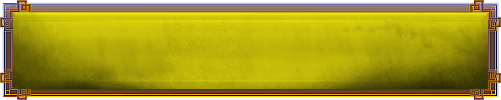
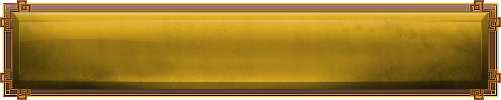
Showing selected class button (by removing background)

diff --git a/public/main.css b/public/main.css
@@ -113,8 +113,8 @@ width: 70%;
 
 .classButton { 
     //background-color: white;
-    font-size: 30px;
-    width:95%;
+    font-size: 1.5vw;
+    min-width:100%;
     //background-image: url("button.png");
    // background: url("button.png") no-repeat scroll 0 0 transparent;
            background: none;
@@ -123,11 +123,12 @@ width: 70%;
    background-repeat: no-repeat;
    background-position: center;
     //background-size: 100% 100%;
-    background-size:100%;
+    background-size:100% 100%;
 
     //height:300px;
     //color: inherit;
     border: none;
+    outline: none;
     //padding: 0;
     //font: inherit;
     //cursor: pointer;
@@ -136,12 +137,15 @@ width: 70%;
      //height:200px;
      //width:300px;
      color: #cea564;
-     //color:black;
       text-shadow:
-    -1px -1px 0 #000,
-    1px -1px 0 #000,
-    -1px 1px 0 #000,
-    1px 1px 0 #000;
+    -0.6px -0.6px 0 #000,
+    0.6px -0.6px 0 #000,
+    -0.6px 0.6px 0 #000,
+    0.6px 0.6px 0 #000;
+}
+
+.classText {
+
 }
 /*.classButton:active {
 	background:green;
@@ -152,6 +156,7 @@ width: 70%;
   table-layout: fixed;
   border-collapse:separate; 
   border-spacing:1em;
+  margin:auto;
 }
 
 .submit {

diff --git a/public/client.js b/public/client.js
@@ -14,15 +14,19 @@ $('.classButton').css('background-image', function(index,currentvalue) {
 	return 'url(' + this.value + 'Button.png)';
 });
 
-
 $('.classButton').click(function(e) {
 	//update hidden class input when any class button is clicked 
 	document.getElementById('classInput').value = this.value;
 	if (lastClickedButton !== null) {
-		lastClickedButton.style.backgroundColor = 'white';
+		lastClickedButton.style.backgroundImage = 'url(' + lastClickedButton.value + 'Button.png)';
+		lastClickedButton.style.color = '#cea564'; 
 	}
 	lastClickedButton = this;
-	this.style.backgroundColor = 'red';
+	//this.style.backgroundColor = 'red';
+	//this.style.background = "linear-gradient(0deg, rgba(0,0,0,1), rgba(0,0,0,1)), url(" + this.value + "Button.png) no-repeat center";
+	this.style.background = "";
+	this.style.color = "black";
+	//this.style.color = 'white';
 });
 
 $('.staticFeature').on('click','.featureButton',function() {

diff --git a/public/index.html b/public/index.html
@@ -29,7 +29,7 @@
       <form id="client-form" method="POST" autocomplete="off">
         <label for="level" class="level">Level:</label>
         <input type="text" id="levelInput" name="level" value="" class="levelInput"/>
-        <table class="classTable" align="center">
+        <table class="classTable">
         <tr>
         <td><button type="button" class="classButton text" value="Barbarian">Barbarian</button></td>
         <td><button type="button" class="classButton text" value="Bard">Bard</button></td>
